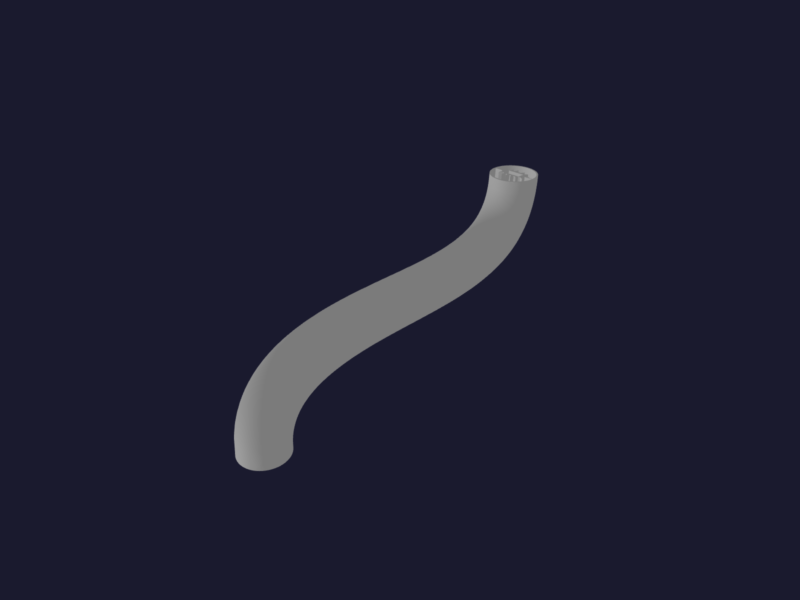
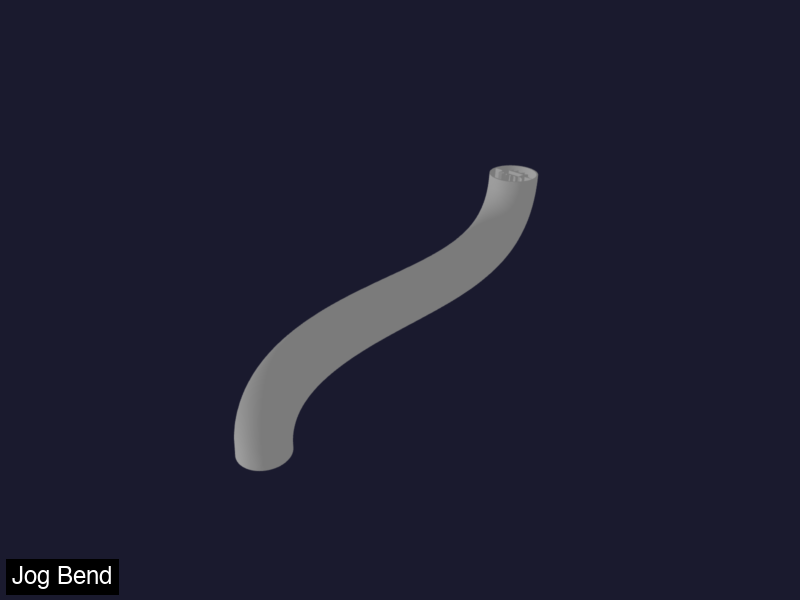
preview: refresh assets and standardize knot drawing
Regenerate preview images/GIF and enable additional knots in generate_previews, while refactoring knot modules to use core draw_part with aux spine/twist.

Made-with: Cursor

Changed region(s): [[0.0, 0.93, 0.1562, 1.0]]

diff --git a/src/led_knots/knots/jog_bend_3d.py b/src/led_knots/knots/jog_bend_3d.py
@@ -15,66 +15,48 @@ Uses build_ribbon_aux_spine(path, config) to constrain twist from config
 """
 
 import logging
-from cadquery.func import spline, sweep
+
+from cadquery.func import spline
 
 from led_knots.core import (
+    draw_part,
     get_config,
-    render_part,
     build_ribbon_aux_spine,
-    create_led_circle_face,
 )
 
 logger = logging.getLogger(__name__)
 
+config = get_config(
+    name="Jog Bend 3D Knot",
+    description="Create and render a jog bend 3D knot",
+)
 
-def main():
-    """Generate and render the jog bend 3D knot."""
-    logging.basicConfig(level=logging.DEBUG)
-    config = get_config(name="Jog Bend 3D Knot", description="Create and render a jog bend 3D knot")
+# Use output bounds from config (path must fit; twist must fit min_90_degree_twist_distance or error is raised)
+width = config.output_bounds.width
+height = config.output_bounds.height
+spine_offset_radius = 5.0
 
-    # Use output bounds from config (path must fit; twist must fit min_90_degree_twist_distance or error is raised)
-    width = config.output_bounds.width
-    height = config.output_bounds.height
-    spine_offset_radius = 5.0
+# Create the sweep path from config bounds
+path = spline(
+    [
+        (0, 0, 0),
+        (width / 2, width / 2, height / 2),
+        (width, width, height),
+    ],
+    tgts=[
+        (0, 0, 1),
+        (0, 1, 0),
+        (0, 0, 1),
+    ],
+)
 
-    # Create the sweep path from config bounds
-    path = spline(
-        [
-            (0, 0, 0),
-            (width / 2, width / 2, height / 2),
-            (width, width, height),
-        ],
-        tgts=[
-            (0, 0, 1),
-            (0, 1, 0),
-            (0, 0, 1),
-        ],
-    )
+# Raises ValueError if twist cannot be achieved within min_90_degree_twist_distance
+aux_spine, initial_rotation = build_ribbon_aux_spine(
+    path,
+    config,
+    num_samples=40,
+    spine_offset_radius=spine_offset_radius,
+)
 
-    # Raises ValueError if twist cannot be achieved within min_90_degree_twist_distance
-    aux_spine, initial_rotation = build_ribbon_aux_spine(
-        path,
-        config,
-        num_samples=40,
-        spine_offset_radius=spine_offset_radius,
-    )
-
-    faces = create_led_circle_face(
-        **config.tube_settings.to_led_circle_face_kwargs(
-            orient_to_path=path,
-            rotation_z=initial_rotation,
-        )
-    )
-
-    result = sweep(faces, path, aux=aux_spine)
-    render_part(
-        result,
-        config,
-        path=path,
-        aux=aux_spine,
-        face_kwargs={"rotation_z": initial_rotation},
-    )
-
-
-if __name__ == "__main__":
-    main()
+# Create, sweep, and render the part (draw_part uses path + aux + rotation_z)
+draw_part(path, config, aux=aux_spine, rotation_z=initial_rotation)

diff --git a/src/led_knots/knots/twisted_rod.py b/src/led_knots/knots/twisted_rod.py
@@ -1,17 +1,17 @@
 """
 Twisted rod knot creation using CadQuery.
 
-Creates a straight vertical pipe with a 90-degree twist by sweeping a 
+Creates a straight vertical pipe with a 90-degree twist by sweeping a
 cross-section along a path with an auxiliary spine that controls the rotation.
 The end face is rotated 90 degrees around the z-axis from the first face.
 """
 
 import logging
 import math
-from cadquery.func import spline, sweep
 
-from led_knots.core import get_config, render_part
-from led_knots.core import create_led_circle_face
+from cadquery.func import spline
+
+from led_knots.core import draw_part, get_config
 
 logger = logging.getLogger(__name__)
 
@@ -19,42 +19,42 @@ logger = logging.getLogger(__name__)
 def create_helix_points(height, radius, total_rotation_deg, num_points=50):
     """
     Create points along a helix for the auxiliary spine.
-    
+
     The helix spirals around the z-axis while moving from z=0 to z=height.
     The total angular sweep controls the twist of the swept shape.
-    
+
     Args:
         height: Height of the helix (mm)
         radius: Radius of the helix (mm)
         total_rotation_deg: Total angular rotation of the helix (degrees)
         num_points: Number of points to generate
-    
+
     Returns:
         List of (x, y, z) tuples representing helix points
     """
     points = []
     total_rotation_rad = math.radians(total_rotation_deg)
-    
+
     for i in range(num_points):
         t = i / (num_points - 1)  # Parameter from 0 to 1
-        
+
         # Angular position (starts at 0, ends at total_rotation)
         theta = t * total_rotation_rad
-        
+
         # Helix position
         x = radius * math.cos(theta)
         y = radius * math.sin(theta)
         z = t * height
-        
+
         points.append((x, y, z))
-    
+
     return points
 
 
 # Load configuration
 config = get_config(
     name="Twisted Rod Knot",
-    description="Create and render a twisted rod knot (90-degree rotation)"
+    description="Create and render a twisted rod knot (90-degree rotation)",
 )
 
 # Create the twisted rod
@@ -71,17 +71,9 @@ helix_points = create_helix_points(
     height=height,
     radius=aux_radius,
     total_rotation_deg=total_rotation,
-    num_points=50
+    num_points=50,
 )
 aux_spine = spline(helix_points)
 
-# Create the cross-section face
-faces = create_led_circle_face(
-    **config.tube_settings.to_led_circle_face_kwargs(orient_to_path=path)
-)
-
-# Sweep the face along the path with the auxiliary spine controlling rotation
-result = sweep(faces, path, aux=aux_spine)
-
-# Render the part
-render_part(result, config)
+# Create, sweep, and render the part (draw_part uses path + aux for twist)
+draw_part(path, config, aux=aux_spine)

diff --git a/src/led_knots/knots/trefoil.py b/src/led_knots/knots/trefoil.py
@@ -9,20 +9,23 @@ Uses build_ribbon_aux_spine(path, config) to constrain twist from config
 """
 
 import logging
-from cadquery.func import spline, sweep
+
+from cadquery.func import spline
 from pyknotid.make import trefoil as make_trefoil
 
 from led_knots.core import (
+    draw_part,
     get_config,
-    render_part,
     build_ribbon_aux_spine,
-    create_led_circle_face,
     scale_pyknot_points,
 )
 
 logger = logging.getLogger(__name__)
 
-config = get_config(name="Trefoil Knot", description="Create and render a trefoil knot")
+config = get_config(
+    name="Trefoil Knot",
+    description="Create and render a trefoil knot",
+)
 
 spine_offset_radius = 5.0
 
@@ -47,19 +50,6 @@ aux_spine, initial_rotation = build_ribbon_aux_spine(
     spine_offset_radius=spine_offset_radius,
 )
 
-faces = create_led_circle_face(
-    **config.tube_settings.to_led_circle_face_kwargs(
-        orient_to_path=path,
-        rotation_z=initial_rotation,
-    )
-)
-
-result = sweep(faces, path, aux=aux_spine)
-render_part(
-    result,
-    config,
-    path=path,
-    aux=aux_spine,
-    face_kwargs={"rotation_z": initial_rotation},
-)
+# Create, sweep, and render the part (draw_part uses path + aux + rotation_z)
+draw_part(path, config, aux=aux_spine, rotation_z=initial_rotation)
 

diff --git a/scripts/generate_previews.py b/scripts/generate_previews.py
@@ -20,13 +20,13 @@ from PIL import Image, ImageDraw, ImageFont
 # Knot module names (must be runnable as python -m led_knots.knots.<name>)
 KNOTS = [
     "rod",
-    # "twisted_rod",
+    "twisted_rod",
     "quarter_turn",
     "ring",
-    # "jog_bend",
-    # "jog_bend_3d",
-    # "helix",
-    # "figure_8",
+    "jog_bend",
+    "jog_bend_3d",
+    "helix",
+    "figure_8",
     # "sine_wave",
     # "trefoil"    
 ]
